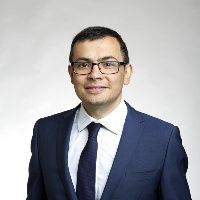
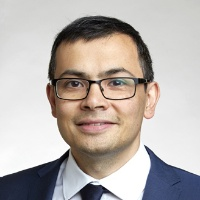
Update people.html

diff --git a/people.md b/people.md
@@ -152,6 +152,15 @@ description: People
   <div class="person__title"></div>
 </a>
 
+<a class="person__item" href="https://deepmind.com/" target="_blank">
+  <div class="person__pic-wrapper">
+    <img class="person__pic" src="images/people/Demis_Hassabis_200x200.jpg">
+  </div>
+  <div class="person__name">Demis Hassabis</div>
+  <div class="person__affil">DeepMind</div>
+  <div class="person__title"></div>
+</a>
+
 <a class="person__item" href="https://www.andrewng.org/" target="_blank">
   <div class="person__pic-wrapper">
     <img class="person__pic" src="images/people/andrewng_200x200.jpg">
